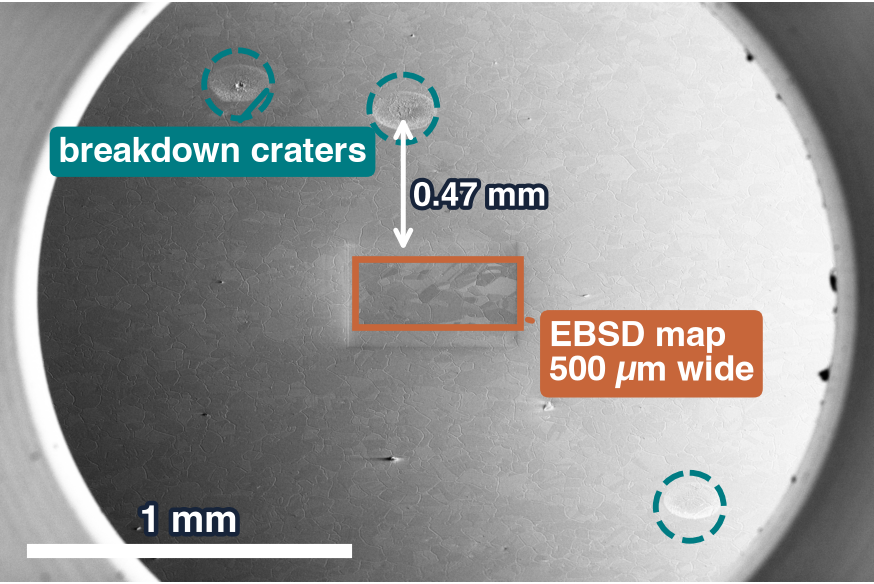
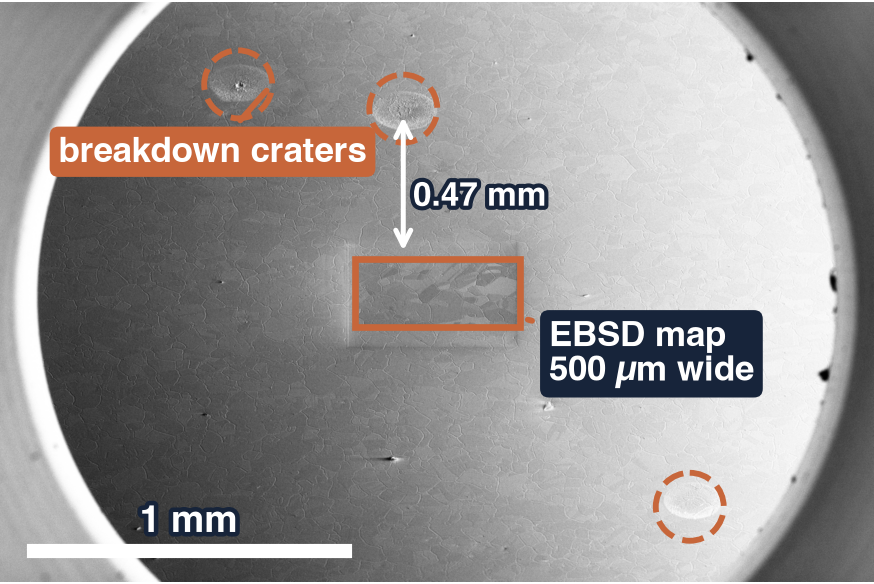
Review triage b: colour key. Frame 4 cube 4 bars (main.tex:316-318) tierhigh, tierlow, tierref instead of three teal shades; frame 9 SEM callouts (figures/make_design_figures.py L85-88): crater circles and 'breakdown craters' chip copper (breakdown color), 'EBSD map' chip ink so the two copper eleme

diff --git a/figures/make_design_figures.py b/figures/make_design_figures.py
@@ -82,10 +82,10 @@ def f08():
     fig,ax=plt.subplots(figsize=(7.4*CM,4.95*CM),dpi=300); fig.subplots_adjust(0,0,1,1); ax.imshow(sem); ax.set_axis_off()
     ax.add_patch(Rectangle((730,530),340,140,fill=False,ec=HIGH,lw=1.6))
     ax.annotate("EBSD map\n500 µm wide",xy=(1070,650),xytext=(1130,780),fontsize=8.5,fontweight="bold",color="white",
-                bbox=dict(boxstyle="round,pad=0.25",fc=HIGH,ec="none"),arrowprops=dict(arrowstyle="-",color=HIGH,lw=1.4))
-    for (x,y) in [(490,170),(830,220),(1420,1040)]: ax.add_patch(plt.Circle((x,y),70,fill=False,ec=REF,lw=1.4,ls="--"))
+                bbox=dict(boxstyle="round,pad=0.25",fc=INK,ec="none"),arrowprops=dict(arrowstyle="-",color=HIGH,lw=1.4))
+    for (x,y) in [(490,170),(830,220),(1420,1040)]: ax.add_patch(plt.Circle((x,y),70,fill=False,ec=COPPER,lw=1.4,ls="--"))
     ax.annotate("breakdown craters",xy=(560,170),xytext=(120,330),fontsize=8.5,fontweight="bold",color="white",
-                bbox=dict(boxstyle="round,pad=0.25",fc=REF,ec="none"),arrowprops=dict(arrowstyle="-",color=REF,lw=1.4))
+                bbox=dict(boxstyle="round,pad=0.25",fc=COPPER,ec="none"),arrowprops=dict(arrowstyle="-",color=COPPER,lw=1.4))
     ax.annotate("",xy=(830,220),xytext=(830,530),arrowprops=dict(arrowstyle="<->",color="white",lw=1.2))
     ax.text(850,400,"0.47 mm",color="white",fontsize=8,fontweight="bold",va="center",path_effects=[pe.withStroke(linewidth=2,foreground=INK)])
     ax.add_patch(Rectangle((60,1120),660,22,color="white"))

diff --git a/main.tex b/main.tex
@@ -313,9 +313,9 @@
     \node[capl] at (8.75,-1.70) {stored dislocations:\\\textbf{slow}; they bend\\the lattice};
     % icon 4: the field writes it, ordered by exposure (no axis, no values)
     \begin{scope}[shift={(12.35,-1.30)},yscale=0.82]
-      \fill[teal!75]  (-1.05,0) rectangle (-0.55,1.05);
-      \fill[teal!45]  (-0.25,0) rectangle ( 0.25,0.60);
-      \fill[teal!20]  ( 0.55,0) rectangle ( 1.05,0.35);
+      \fill[tierhigh] (-1.05,0) rectangle (-0.55,1.05);
+      \fill[tierlow]  (-0.25,0) rectangle ( 0.25,0.60);
+      \fill[tierref]  ( 0.55,0) rectangle ( 1.05,0.35);
       \node[font=\footnotesize] at (-0.40,0.80) {$>$};
       \node[font=\footnotesize] at ( 0.40,0.62) {$\geq$};
       \draw[muted] (-1.15,0) -- (1.15,0);
